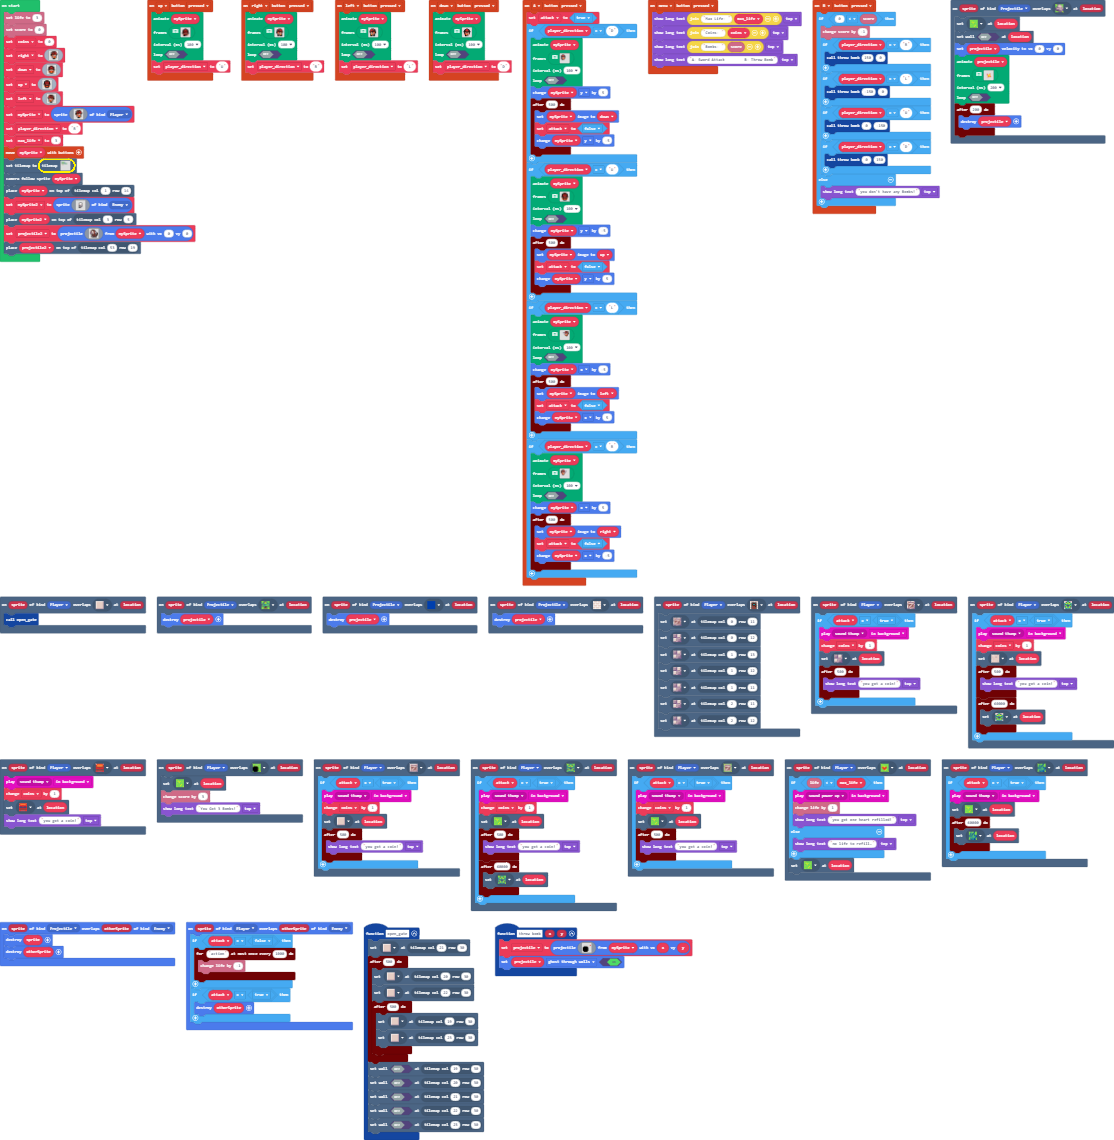
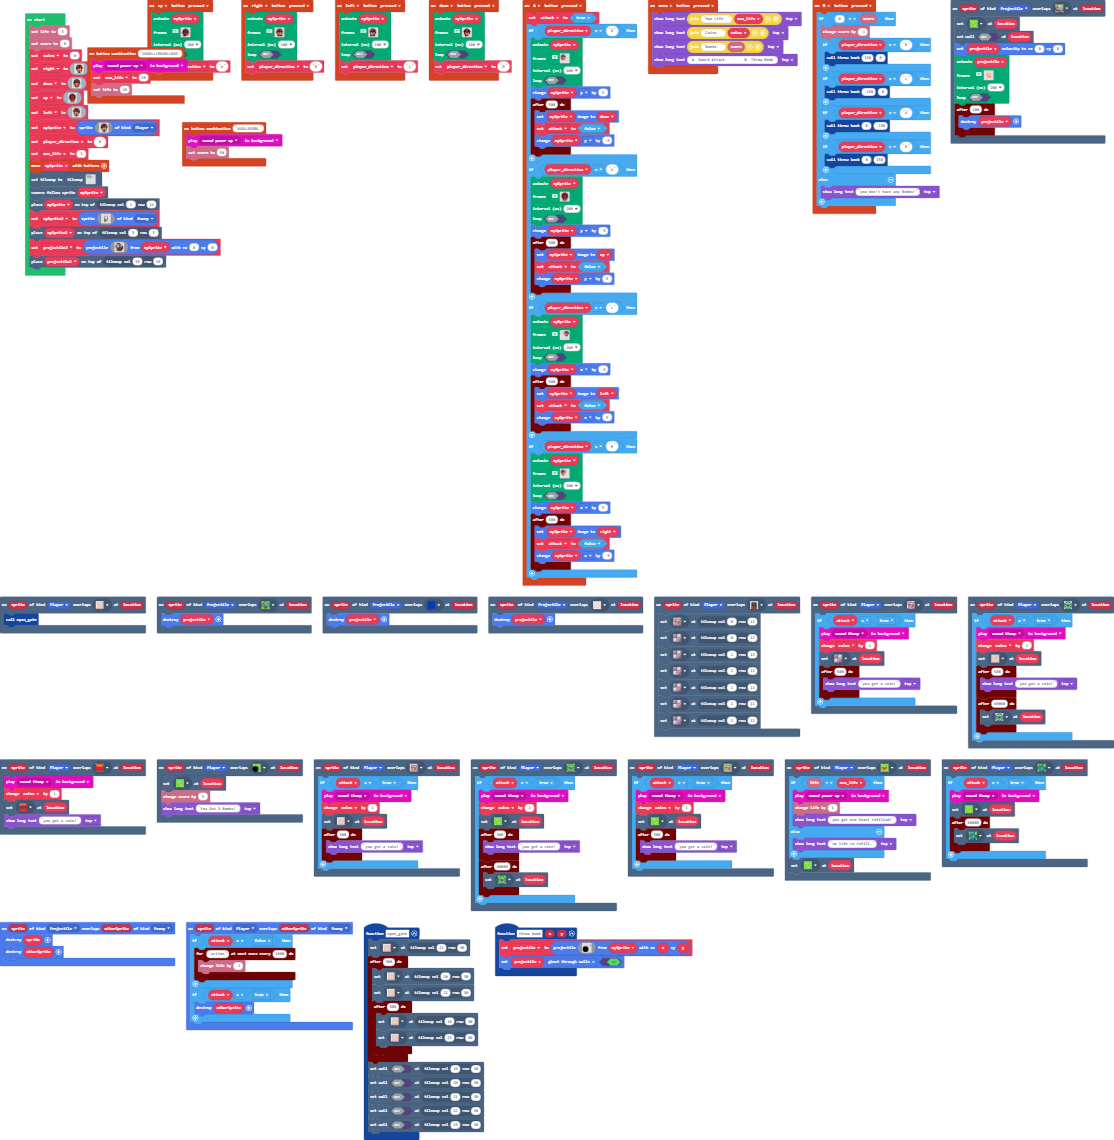
Update main.blocks, main.ts

Changed region(s): [[0.0, 0.0, 0.2442, 0.2456]]

diff --git a/main.ts b/main.ts
@@ -91,6 +91,11 @@ controller.up.onEvent(ControllerButtonEvent.Pressed, function () {
 scene.onOverlapTile(SpriteKind.Projectile, assets.tile`myTile3`, function (sprite, location) {
     sprites.destroy(projectile)
 })
+controller.combos.attachCombo("UUUDLLLRDURLLRUD", function () {
+    music.play(music.melodyPlayable(music.powerUp), music.PlaybackMode.InBackground)
+    max_life = 20
+    info.setLife(20)
+})
 controller.B.onEvent(ControllerButtonEvent.Pressed, function () {
     if (0 < info.score()) {
         info.changeScoreBy(-1)
@@ -119,6 +124,10 @@ scene.onOverlapTile(SpriteKind.Player, assets.tile`myTile`, function (sprite, lo
             game.showLongText("you got a coin!", DialogLayout.Top)
         })
     }
+})
+controller.combos.attachCombo("UUDLLRUDRL", function () {
+    music.play(music.melodyPlayable(music.powerUp), music.PlaybackMode.InBackground)
+    info.setScore(50)
 })
 scene.onOverlapTile(SpriteKind.Player, assets.tile`myTile32`, function (sprite, location) {
     if (attack == true) {
